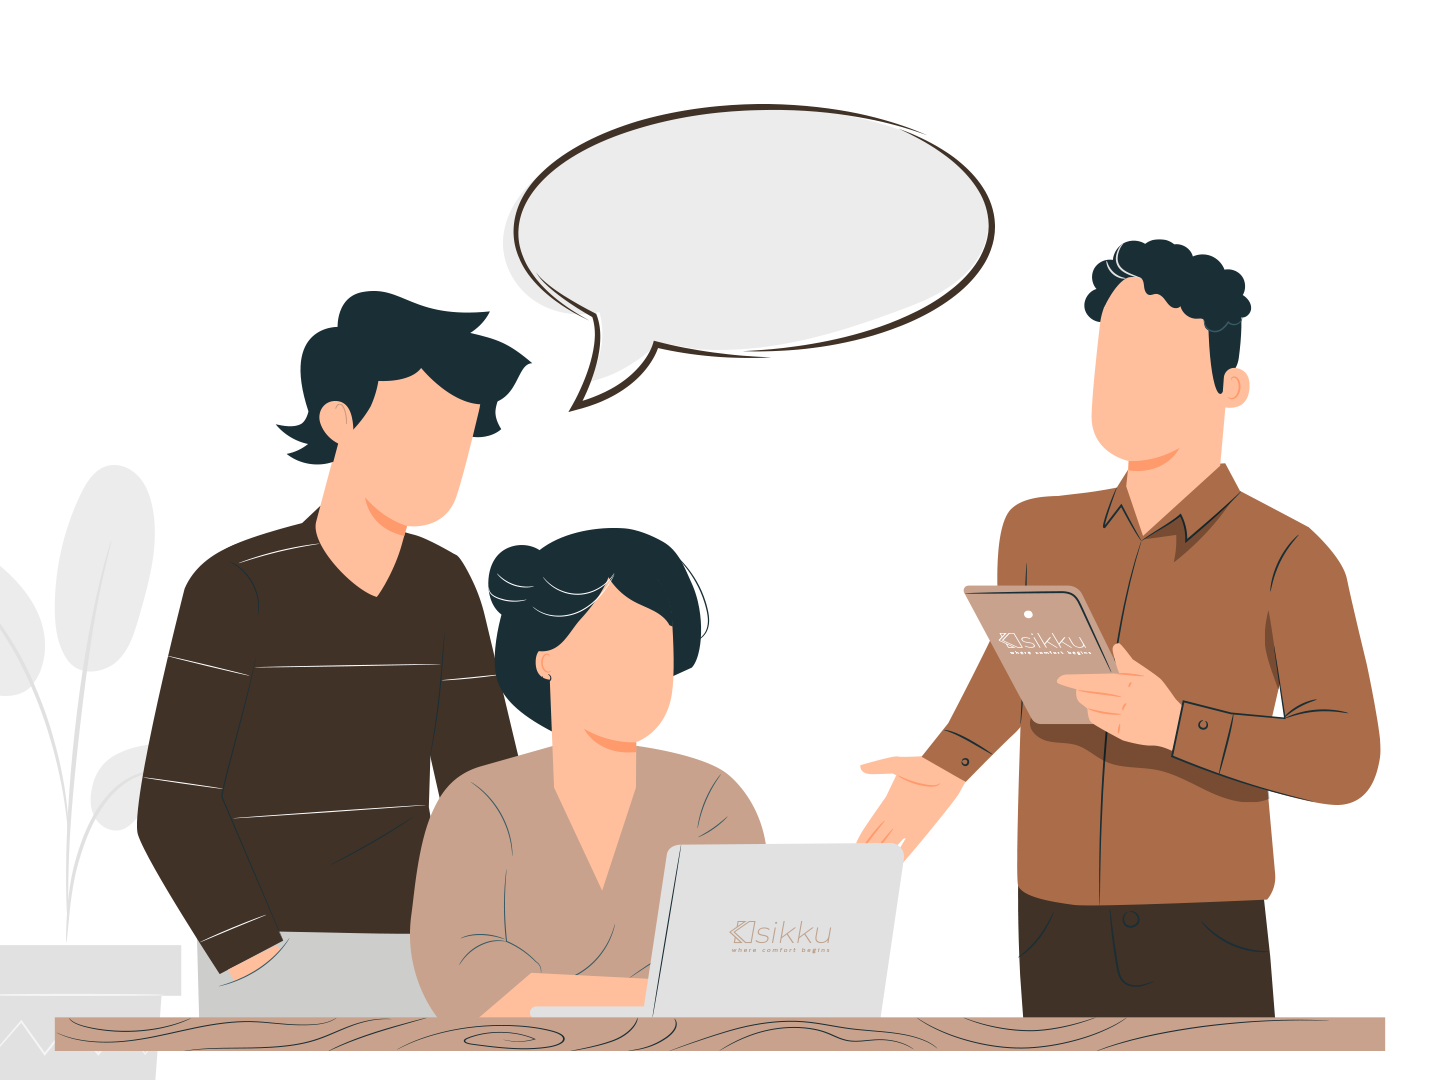
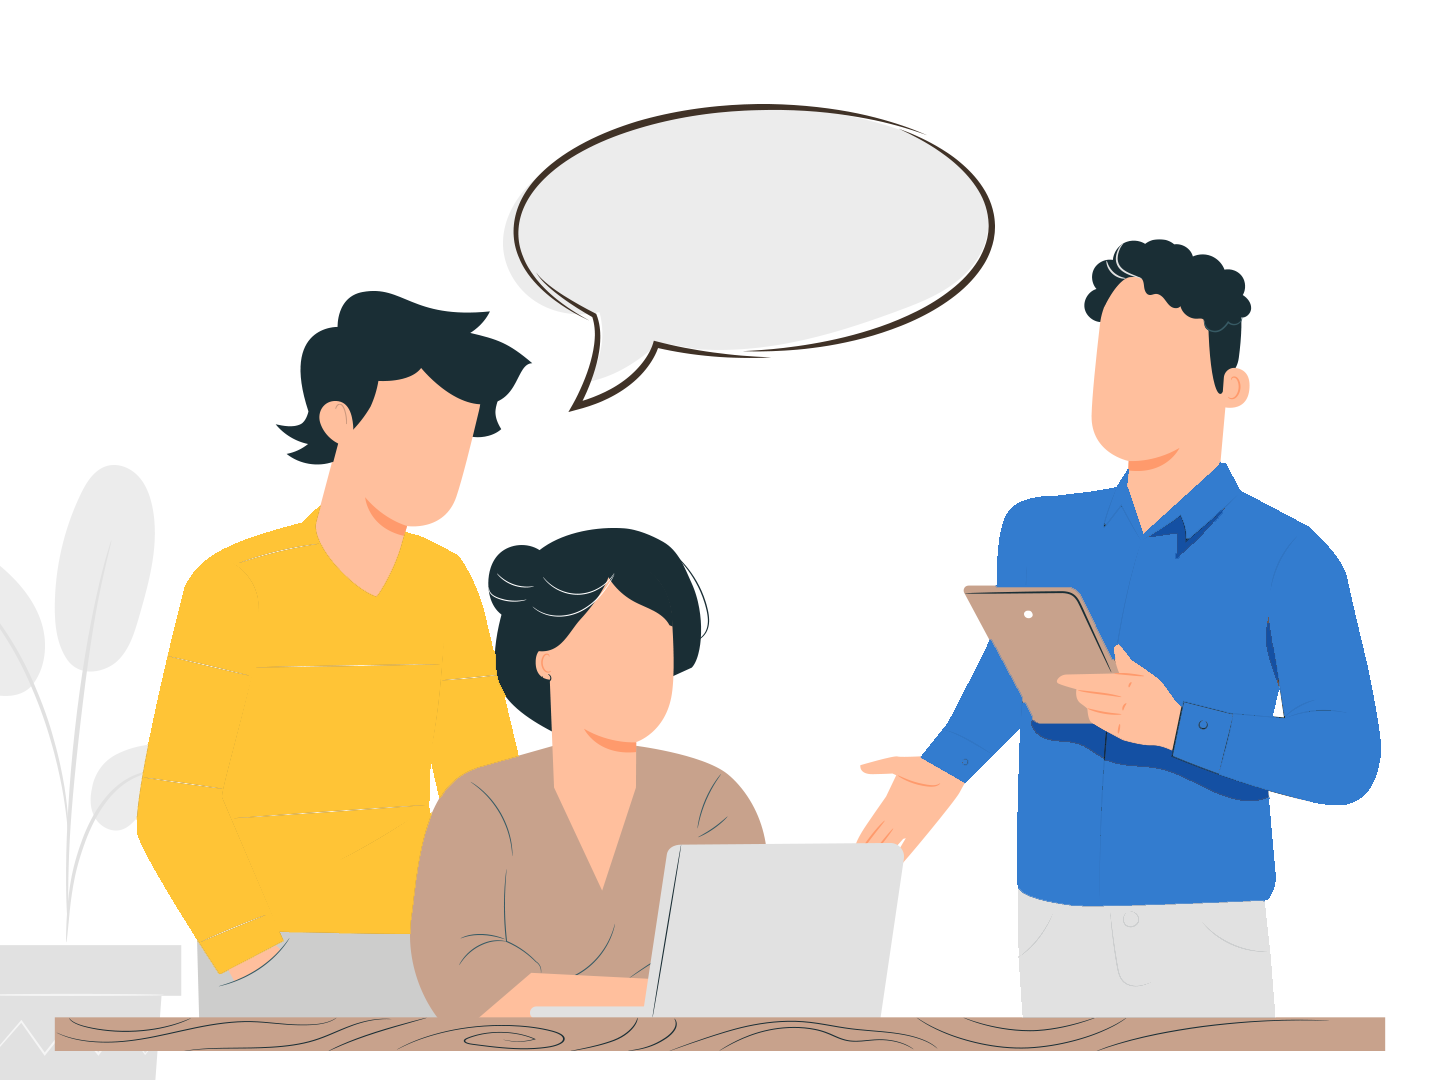
interna setup

Changed region(s): [[0.625, 0.4278, 0.9688, 0.9472], [0.0938, 0.4583, 0.375, 0.9167], [0.5, 0.8556, 0.5625, 0.8861]]

diff --git a/public/assets/css/style.css b/public/assets/css/style.css
@@ -24,11 +24,11 @@ body::-webkit-scrollbar {
 
 ::-moz-selection {
     /* Code for Firefox */
-    background: #bda18c;
+    background: #1450a3;
 }
 
 ::selection {
-    background: #bda18c;
+    background: #1450a3;
 }
 
 /* Back to Top */
@@ -119,50 +119,50 @@ body::-webkit-scrollbar {
 
 /* Sikku Style */
 .text-sikku {
-    color: #9b6d4c;
+    color: #337ccf;
 }
 .text-sikku-light {
-    color: #bda18c;
+    color: #1450a3;
 }
 .sikku-primary {
-    background-color: #9b6d4c;
+    background-color: #337ccf;
 }
 .sikku-light {
-    background-color: #bda18c;
+    background-color: #1450a3;
 }
 .sikku-dark {
-    background-color: #3f352c;
+    background-color: #191d88;
 }
 .btn-sikku-main {
-    background-color: #9b6d4c;
+    background-color: #337ccf;
     color: white;
 }
 .btn-sikku-main:hover {
-    background-color: #3f352c;
+    background-color: #191d88;
     color: white;
 }
 
 .btn-sikku-light {
-    background-color: #bda18c;
+    background-color: #1450a3;
     color: white;
 }
 .btn-sikku-light:hover {
-    background-color: #3f352c;
+    background-color: #191d88;
     color: white;
 }
 
 .btn-outline-sikku {
     border-color: rgba(155, 109, 76, 0.75);
-    color: #9b6d4c;
+    color: #337ccf;
 }
 .btn-outline-sikku:hover {
     border-color: rgba(155, 109, 76, 0.75);
     box-shadow: 0 0 0 0.2rem rgba(63, 53, 44, 0.5);
-    background-color: #9b6d4c;
+    background-color: #337ccf;
     color: white;
 }
 .offcanvas-header {
-    background-color: #9b6d4c;
+    background-color: #337ccf;
 }
 
 .form-control:focus {

diff --git a/resources/views/guest/landing.blade.php b/resources/views/guest/landing.blade.php
@@ -144,7 +144,7 @@
         <div class="sikku-primary">
             <div class="container py-5">
                 <h2 class="kanit text-center text-white">Desain Interior Sesuai Ruangan</h2>
-                <h6 class="text-center mt-3 mb-4 text-white">Koleksi inspirasi desain interior Japandi oleh tim Dekoruma.
+                <h6 class="text-center mt-3 mb-4 text-white">Koleksi inspirasi desain interior Japandi oleh tim Interna.
                     Desain
                     estetik,
                     kualitas
@@ -226,7 +226,7 @@
         </div>
         <!-- Mengapa Memilih -->
         <div class="container text-center my-5">
-            <h1 class="kanit" style="font-weight: 500">Mengapa memilih Sikku?</h1>
+            <h1 class="kanit" style="font-weight: 500">Mengapa memilih Interna?</h1>
             <div class="row my-4">
                 <div class="col-4">
                     <div class="card p-3">
@@ -309,7 +309,7 @@
                             <div id="caption-0" class="carousel-caption d-none d-md-block">
                                 <h4 class="kanit mb-3" style="font-weight: 500 ">Registrasi dan Konsultasi</h4>
                                 <p>Ada 3 opsi, yaitu konsultasi online, kunjungan langsung ke rumahmu, dan konsultasi di
-                                    Sikku Experience Center.</p>
+                                    Interna Experience Center.</p>
                             </div>
                         </div>
                     </div>
@@ -495,24 +495,24 @@
             </div>
         </div>
         <!-- Footer -->
-        <div class="sikku-light">
+        <div class="sikku-primary">
             <div class="container ">
                 <div class="row py-5">
                     <!-- desktop -->
-                    <div class="col-md-8 text-start d-none d-md-block">
+                    <div class="col-md-8 text-start d-none d-md-block text-white">
                         <h1 class="kanit">Siap Wujudkan Interior Japandi Impianmu?</h1>
                     </div>
                     <!-- mobile -->
-                    <div class="col-12 text-center hidden-md-and-up">
+                    <div class="col-12 text-center hidden-md-and-up text-white">
                         <h1 class="kanit">Siap Wujudkan Interior Japandi Impianmu?</h1>
                     </div>
                     <div class="col-12 col-md-4 text-center">
-                        <a href="/" class="btn btn-lg btn-sikku-main px-5">Mulai Disini</a>
+                        <a href="/" class="btn btn-lg btn-sikku-light px-5">Mulai Disini</a>
                     </div>
                 </div>
             </div>
         </div>
-        <div class="sikku-dark">
+        <div class="sikku-light">
             <div class="container">
                 <div class="row pt-5">
                     <div class="col-12 col-md-3 mb-3">
@@ -534,11 +534,11 @@
                             </li>
                             <li class="nav-item mb-2"><a class="nav-link p-0 text-white">09.00 - 18.00</a>
                             </li>
-                            <li class="nav-item mb-2"><a href="https://wa.me/6287810081994"
-                                    class="nav-link p-0 text-white">0878-1008-1994</a>
+                            <li class="nav-item mb-2"><a href="https://wa.me/6282215398499"
+                                    class="nav-link p-0 text-white">0822-1539-8499</a>
                             </li>
-                            <li class="nav-item mb-2"><a href="mailto:hi@sikku.id"
-                                    class="nav-link p-0 text-white">hi@sikku.id</a>
+                            <li class="nav-item mb-2"><a href="mailto:bisnis@interiorinterna.com"
+                                    class="nav-link p-0 text-white">bisnis@interiorinterna.com</a>
                             </li>
                         </ul>
                     </div>
@@ -572,7 +572,7 @@
                 </div>
 
                 <div class="d-flex flex-wrap justify-content-between align-items-center pt-3 pb-5 my-4 border-top">
-                    <p class="col-md-4 mb-0 text-white">&copy; 2023 Sikku, Inc</p>
+                    <p class="col-md-4 mb-0 text-white">&copy; 2024 Interna, Inc</p>
 
                     <a href="{{ route('landing') }}"
                         class="col-md-4 d-flex align-items-center justify-content-center mb-3 mb-md-0 me-md-auto link-body-emphasis text-decoration-none">

diff --git a/resources/views/layouts/app.blade.php b/resources/views/layouts/app.blade.php
@@ -12,7 +12,7 @@
     <!-- CSRF Token -->
     <meta name="csrf-token" content="{{ csrf_token() }}">
 
-    <title>Sikku | @yield('title')</title>
+    <title>Interna | @yield('title')</title>
 
     <!-- Fonts -->
     <link href='https://fonts.googleapis.com/css?family=Archivo:400,500,600,700,900' rel='stylesheet'>
@@ -84,7 +84,7 @@
             </div>
             <div class="navbar-nav flex-row">
                 <li class="nav-item">
-                    <a class="btn btn-sikku-main px-4" href="https://wa.me/6287810081994" target="_blank">Tanya
+                    <a class="btn btn-sikku-main px-4" href="https://wa.me/6282215398499" target="_blank">Tanya
                         Harga</a>
                 </li>
             </div>
@@ -104,7 +104,7 @@
         <!-- Whatsapp button -->
         <button type="button" class="btn btn-floating btn-lg border-0 shadow-md rounded-circle d-none" id="whatsapp"
             aria-label="Whatsapp">
-            <a href="https://wa.me/6287810081994" target="_blank"><i class="fa-brands fa-whatsapp fa-2xl text-center"
+            <a href="https://wa.me/6282215398499" target="_blank"><i class="fa-brands fa-whatsapp fa-2xl text-center"
                     style="color: #fff;margin-top: 10px;"></i></a>
         </button>
         <!-- Offcanvas button -->
